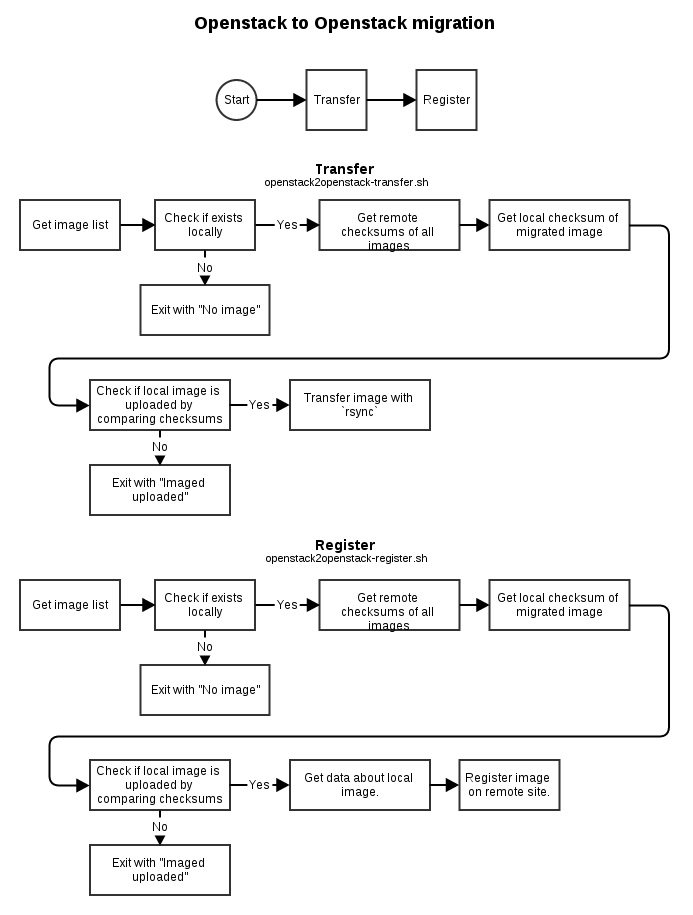
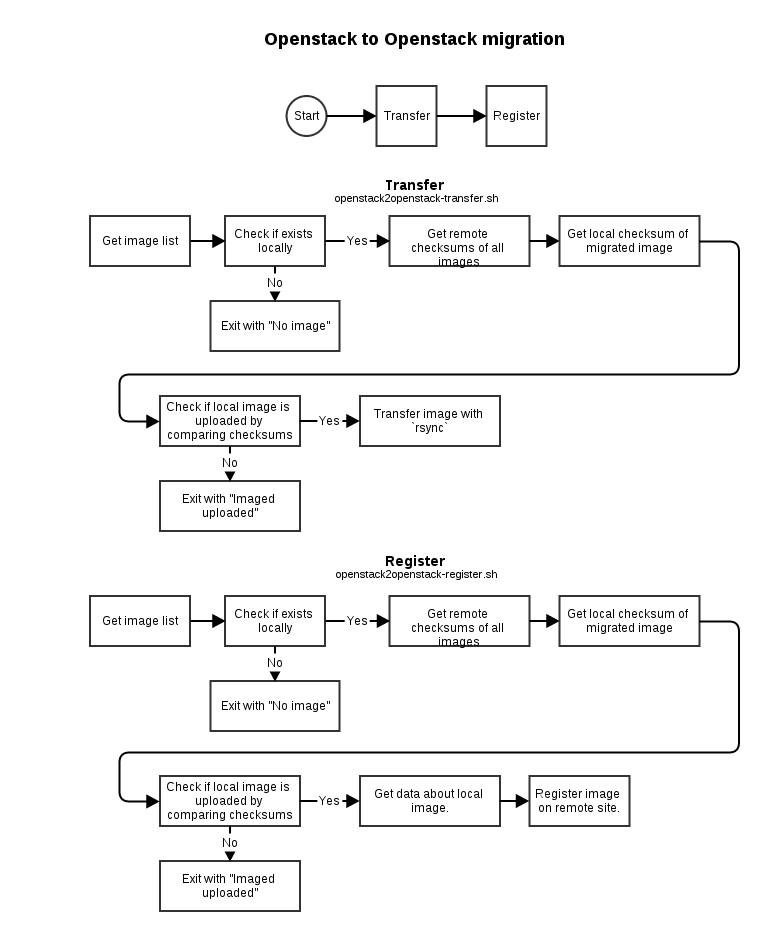
Update diagrams

diff --git a/README.md b/README.md
@@ -237,6 +237,8 @@ Diagrams repesenting steps in migrating
 
 ![From OpenStack to Amazon](docs/openstack2amazon.png)
 
+Create using Gliffy.
+
 ## Contributing
 
 1. Fork it!
